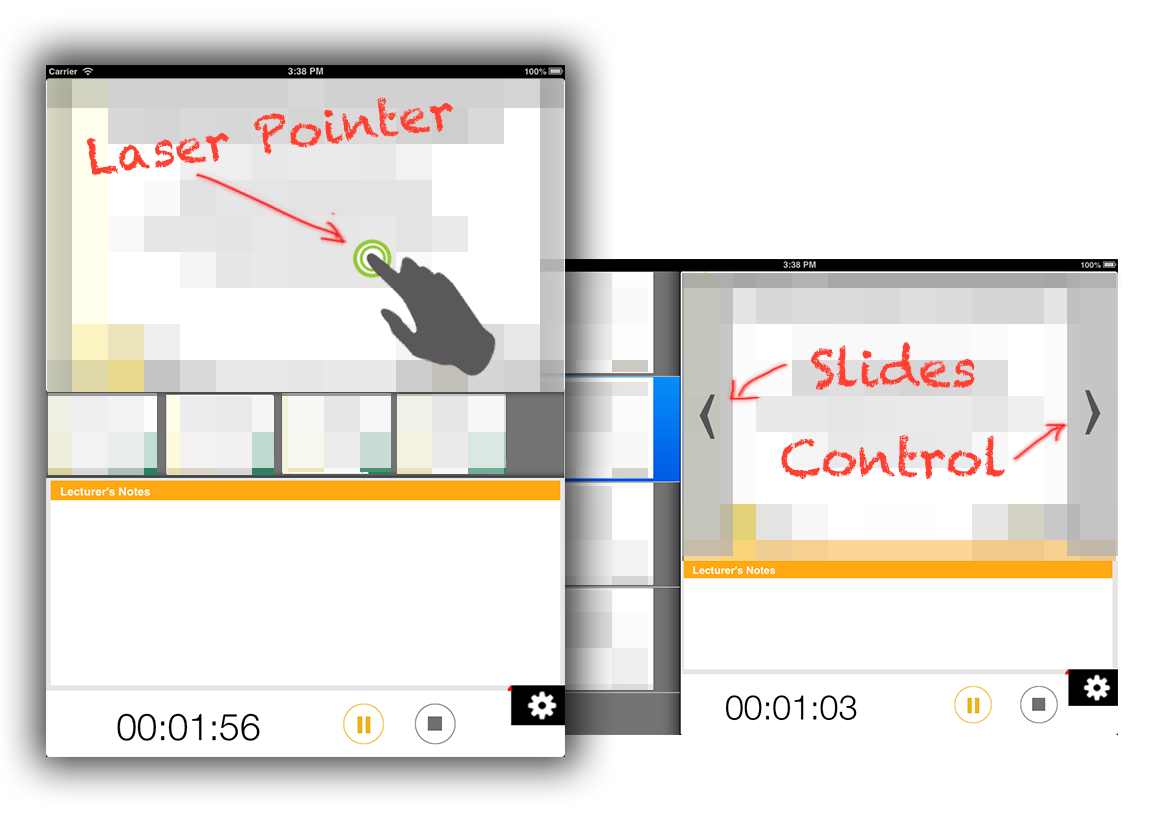
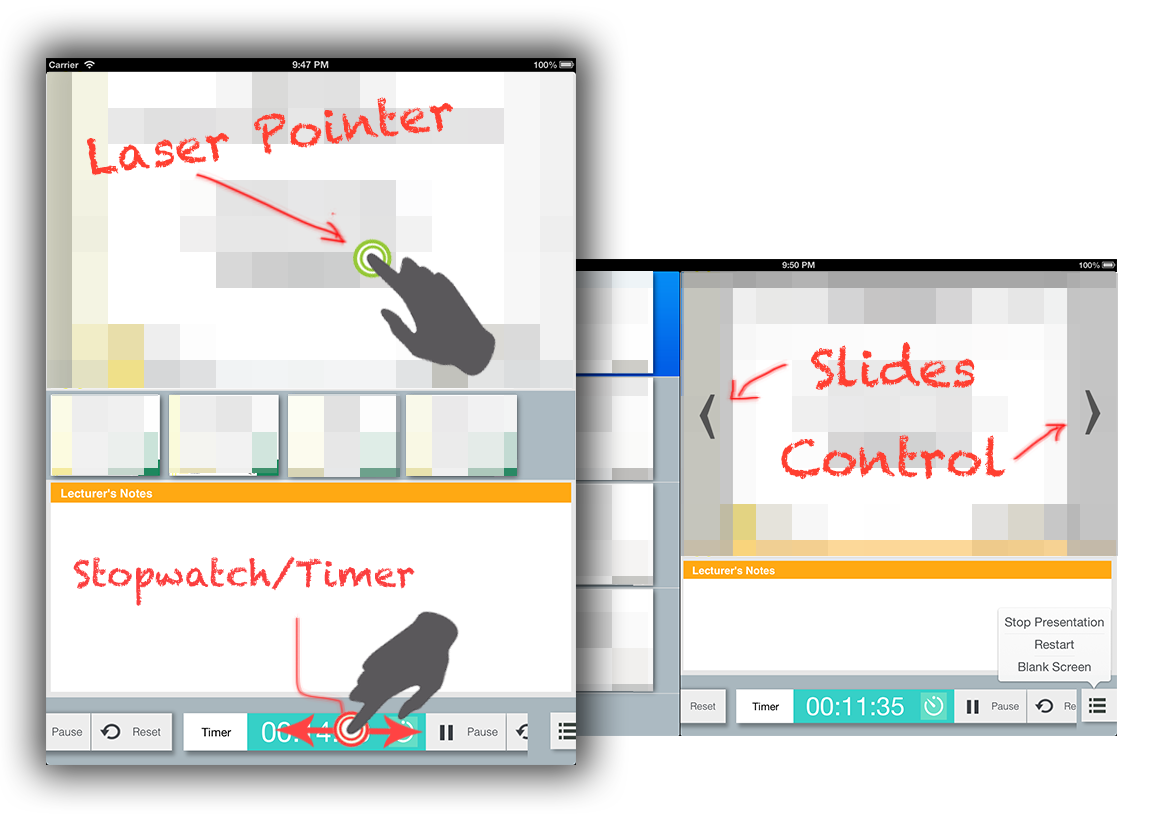
ad-hoc bug fixes to handle different notes format on Linux/OSX

diff --git a/ios/iosremote/iosremote/Communication/CommandInterpreter.m b/ios/iosremote/iosremote/Communication/CommandInterpreter.m
@@ -35,6 +35,7 @@ dispatch_queue_t backgroundQueue;
 
 // Received a set of instructions from server.
 - (void) parse:(NSArray*)command{
+//    NSLog(@"Command : %@", command);
     uint marker = 0;
     if ([command count] == 0) {
         return;
@@ -47,7 +48,6 @@ dispatch_queue_t backgroundQueue;
         marker = 2;
     }
     else if ([instruction isEqualToString:STATUS_PAIRING_PAIRED]){
-//        NSLog(@"Paired command: %@", command);
         [[NSNotificationCenter defaultCenter] postNotificationName:STATUS_PAIRING_PAIRED
                                                             object:nil];
         marker = 2;
@@ -86,7 +86,6 @@ dispatch_queue_t backgroundQueue;
             [[NSNotificationCenter defaultCenter] postNotificationName:MSG_SLIDE_CHANGED object:nil];
             marker = 3;
         } else if ([instruction isEqualToString:@"slide_preview"]){
-//            NSLog(@"Interpreter: slide_preview");
             backgroundQueue = dispatch_queue_create("com.libreoffice.iosremote", NULL);
             dispatch_async(backgroundQueue, ^(void) {
                 uint slideNumber = [[command objectAtIndex:1] integerValue];
@@ -96,13 +95,12 @@ dispatch_queue_t backgroundQueue;
             });
             marker = 4;
         } else if ([instruction isEqualToString:@"slide_notes"]){
-//            NSLog(@"Interpreter: slide_notes");
             backgroundQueue = dispatch_queue_create("com.libreoffice.iosremote", NULL);
             uint slideNumber = [[command objectAtIndex:1] integerValue];
             NSMutableString *notes = [[NSMutableString alloc] init];
             for (int i = 2; i<command.count; ++i) {
                 [notes appendString:[command objectAtIndex:i]];
-                if ([notes hasSuffix:@"</body>"]) {
+                if ([notes hasSuffix:@"</html>"] || [notes hasSuffix:@"</body>"]) {
                     marker = i+2;
                     break;
                 }

diff --git a/ios/iosremote/iosremote/Communication/Client.m b/ios/iosremote/iosremote/Communication/Client.m
@@ -207,6 +207,7 @@ int count = 0;
             backgroundQueue = dispatch_queue_create("com.libreoffice.iosremote", DISPATCH_QUEUE_CONCURRENT);
             dispatch_async(backgroundQueue, ^(void) {
                 NSArray *commands = [str componentsSeparatedByString:@"\n"];
+                NSLog(@"Commands: %@", commands);
                 [self.receiver parse:commands];
             });
             data = nil;
@@ -223,9 +224,7 @@ int count = 0;
     if(self.inputStream == nil && self.outputStream == nil)
         return;
     [self stopConnectionTimeoutTimer];
-//    NSLog(@"stream status i:%u o:%u", self.inputStream.streamStatus, self.outputStream.streamStatus);
     if ([self.inputStream streamStatus] != NSStreamStatusClosed) {
-//        NSLog(@"ci");
         [self.inputStream close];
     } else
         [self.inputStream removeFromRunLoop:[NSRunLoop currentRunLoop] forMode:NSDefaultRunLoopMode];

diff --git a/ios/iosremote/iosremote/Timer.m b/ios/iosremote/iosremote/Timer.m
@@ -37,6 +37,7 @@ int vibrationCount;
     self.state = TIMER_STATE_CLEARED;
     self.set = NO;
     secondsLeft = kCountDownTimerDefaultDuration * 60;
+    initSecondsLeft = secondsLeft;
     
     return self;
 }
@@ -54,6 +55,7 @@ int vibrationCount;
     self.timeLabel = timeLabel;
     
     [self setupActions];
+    [self clear];
     return self;
 }
 
@@ -63,8 +65,9 @@ int vibrationCount;
     self.clearButton = (UIButton *)[[cell viewWithTag:9] viewWithTag:3];
     self.setTimeButton = (UIButton *)[[cell viewWithTag:9] viewWithTag:4];
     self.timeLabel = (UILabel *)[[cell viewWithTag:9] viewWithTag:1];
-    
+
     [self setupActions];
+    [self clear];
 }
 
 - (void) setupActions

diff --git a/ios/iosremote/iosremote/AppDelegate.m b/ios/iosremote/iosremote/AppDelegate.m
@@ -69,7 +69,7 @@ blue:((float)(rgbValue & 0xFF))/255.0 alpha:1.0]
     kCountDownTimerAutoStart = [[NSUserDefaults standardUserDefaults] boolForKey:@"TIMER_AUTO_START"];
     kCountDownTimerVibration = [[NSUserDefaults standardUserDefaults] boolForKey:@"TIMER_VIBRATION"];
     
-    NSLog(@"Setting kDefaultTimerWidget to %d", kDefaultTimerWidget);
+    NSLog(@"Setting kCountDownTimerDefaultDuration to %d", kCountDownTimerDefaultDuration);
 }
 
 - (void)applicationWillResignActive:(UIApplication *)application

diff --git a/ios/iosremote/iosremote/Communication/SlideShow.m b/ios/iosremote/iosremote/Communication/SlideShow.m
@@ -147,7 +147,6 @@ NSString *sTitle;
 }
 
 - (void) putNotes: (NSString *)notes AtIndex: (uint) index{
-//    NSLog(@"Put note into %u", index);
     [self.notesDictionary setObject:notes forKey:[NSNumber numberWithUnsignedInt:index]];
     [[NSNotificationCenter defaultCenter] postNotificationName:@"storage_update_ready"
                                                         object:nil
